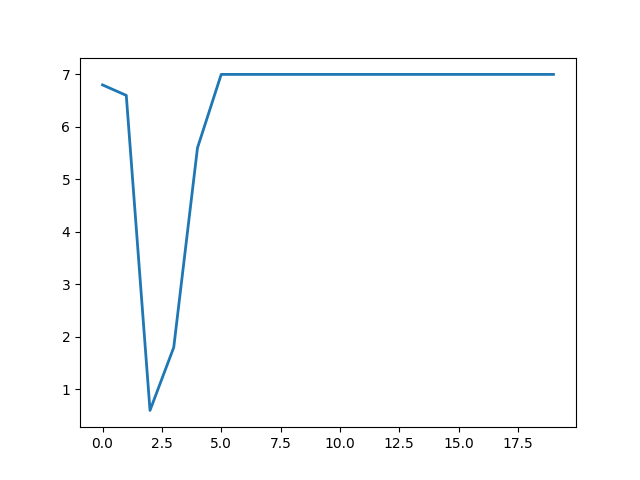
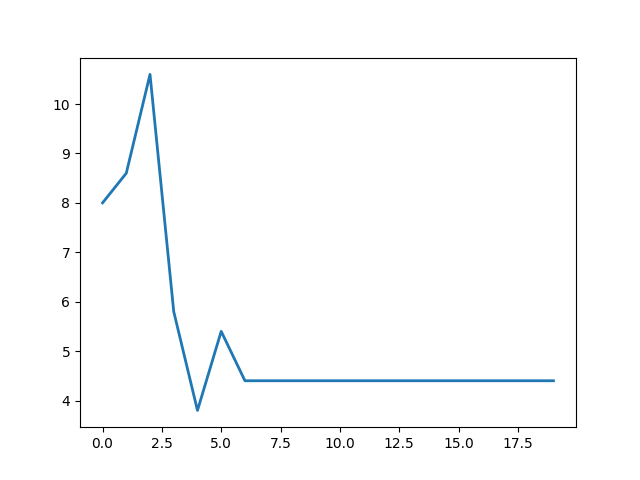
plot 1&2 work??

diff --git a/tiktac.py b/tiktac.py
@@ -47,11 +47,11 @@ class TikTacToe:
       
     # plt.subplots()
     fig, ax = plt.subplots()
-    ax.plot([n for n in range(20)], origin_comparison, linewidth=2.0)
+    ax.plot([n for n in range(20)], previous_comparison, linewidth=2.0)
     
 
     # plt.plot(origin_comparison, range(20))
-    plt.savefig('tikbestvspevious.png')
+    plt.savefig('tikbestvsprevious.png')
       # for strat in strats:
       #   print("------------")
       #   for n in range(5):
@@ -174,7 +174,7 @@ class TikTacToe:
       return False
 
   def check_same(self,state,uno,dos,tres):
-    if state[uno]==state[dos] and state[dos]==state[tres] and state[uno]!=0:
+    if state[uno]==state[dos] and state[dos]==state[tres] and state[uno]!='0':
       return True
     else:
       return False
